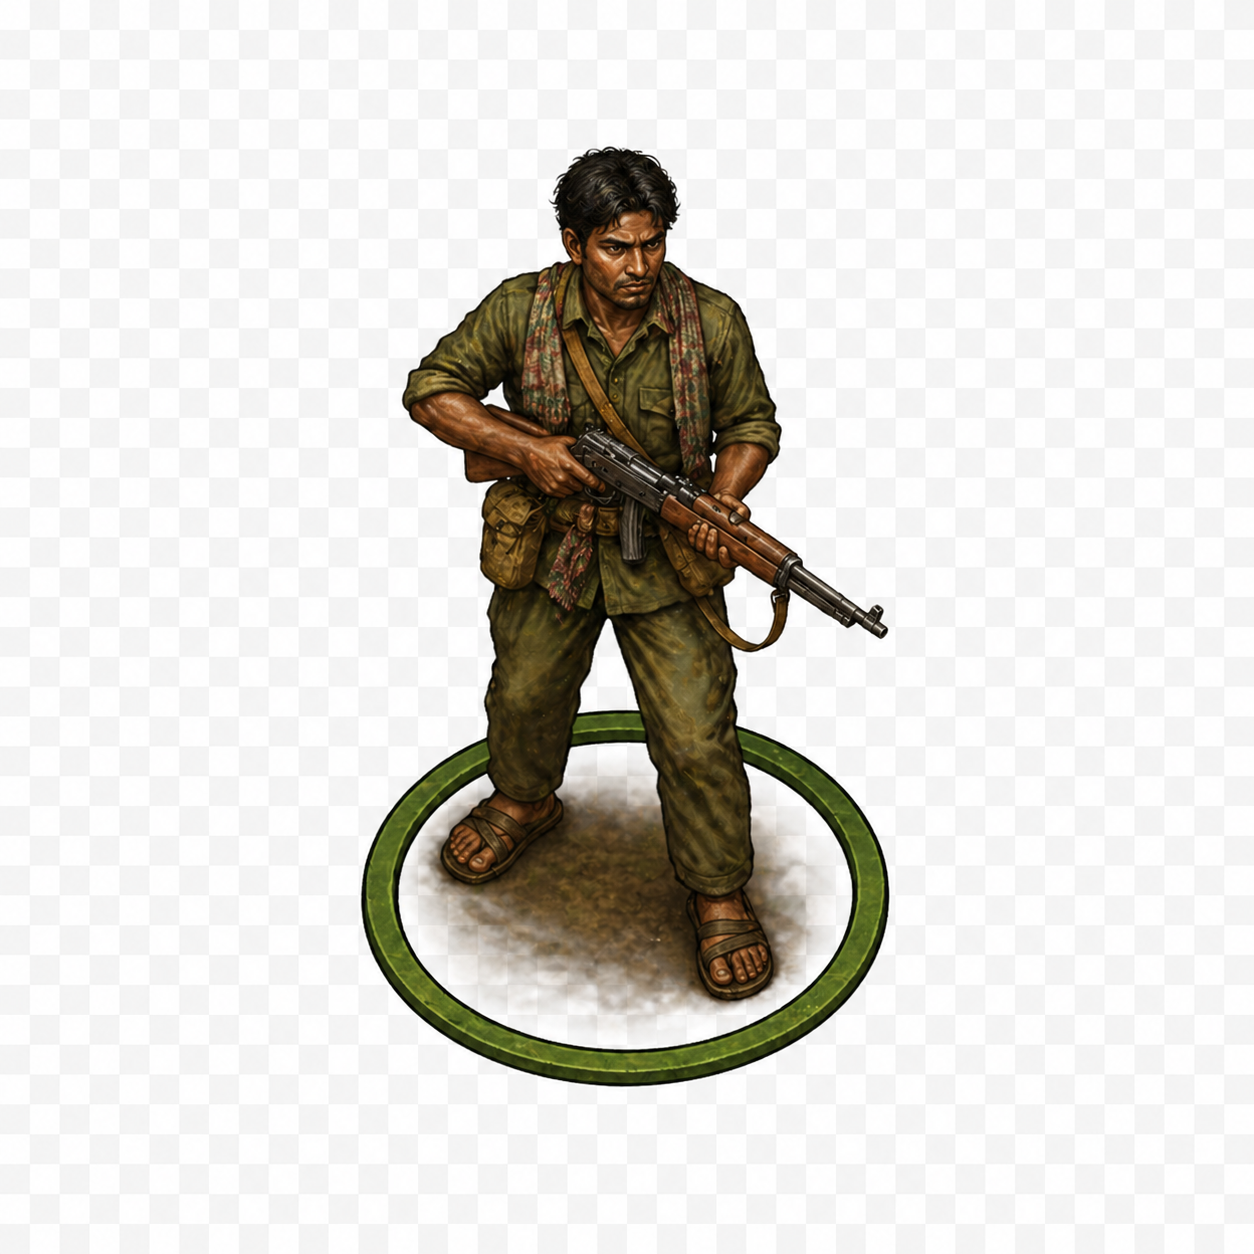
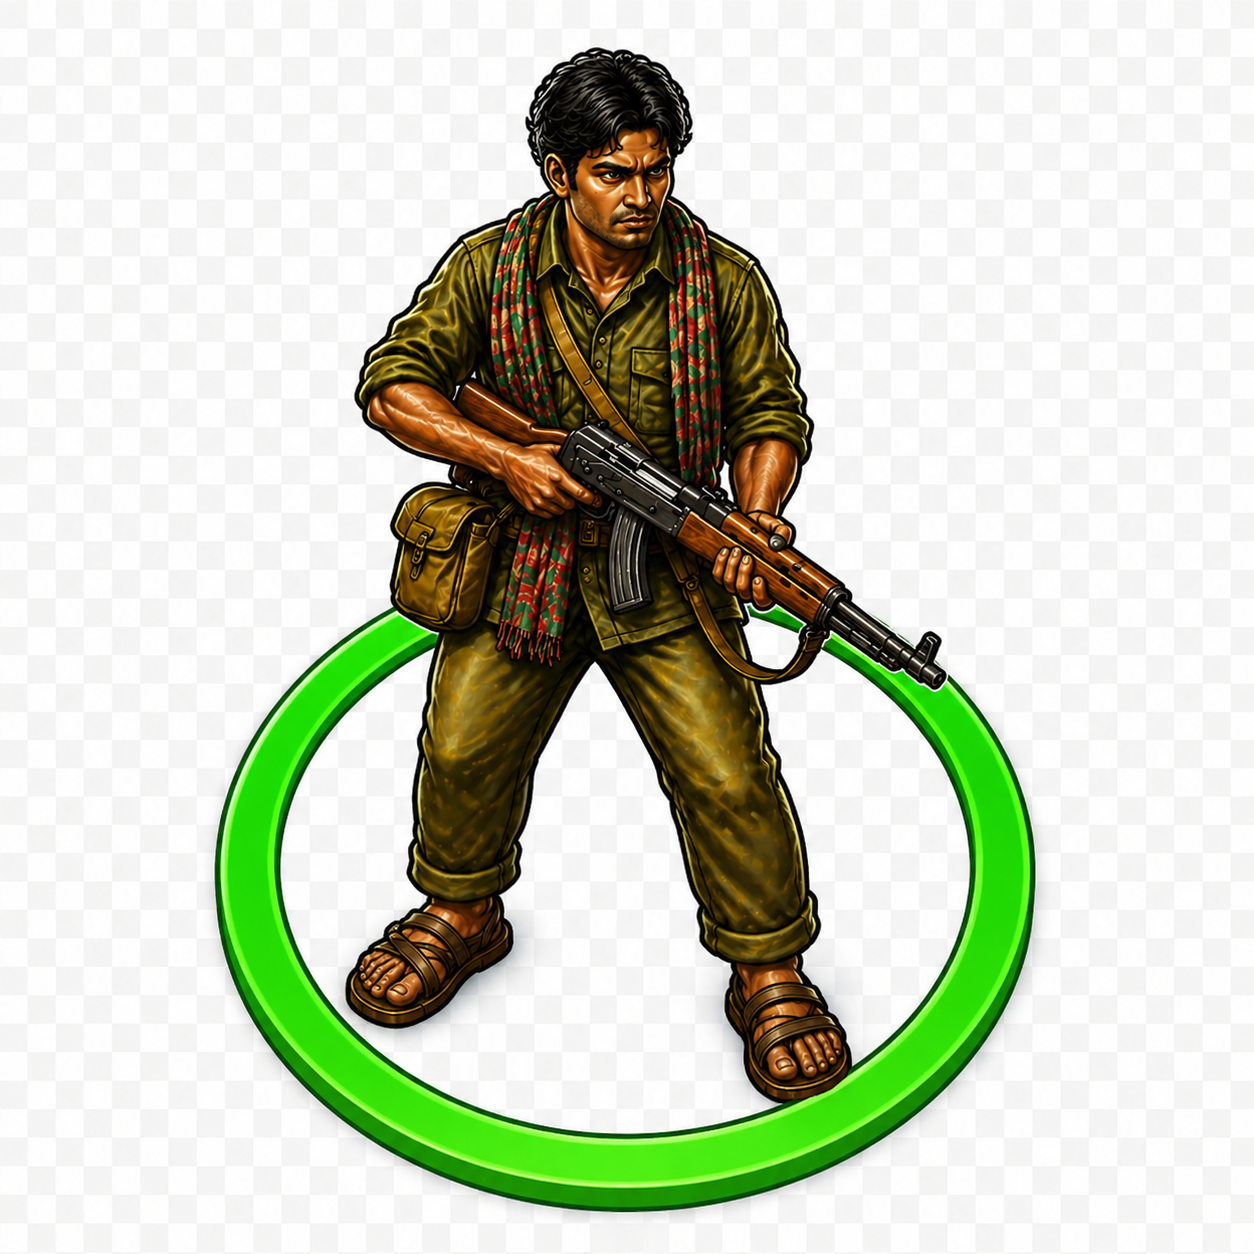
chore: update gameplay UI and assets

Changed region(s): [[0.1555, 0.0311, 0.8397, 0.9952]]

diff --git a/main.py b/main.py
@@ -2,6 +2,7 @@
 from __future__ import annotations
 
 import os
+from collections import deque
 
 import pygame
 from typing import Optional
@@ -121,7 +122,51 @@ def _load_gameplay_sprite(sprite_name: str, target_size: int) -> Optional[pygame
             crop_x = (img.get_width() - crop_w) // 2
             crop_y = (img.get_height() - crop_h) // 2
             img = img.subsurface((crop_x, crop_y, crop_w, crop_h)).copy()
-        return pygame.transform.smoothscale(img, (target_size, target_size))
+
+        scaled = pygame.transform.smoothscale(
+            img, (target_size, target_size)).convert_alpha()
+
+        # Remove neutral white/gray block backgrounds only when they are
+        # connected to the icon border, preserving interior highlights.
+        def _is_bg(px: pygame.Color) -> bool:
+            if px.a == 0:
+                return False
+            brightness = min(px.r, px.g, px.b)
+            spread = max(px.r, px.g, px.b) - brightness
+            return brightness >= 120 and spread <= 22
+
+        w, h = scaled.get_size()
+        q = deque()
+        visited: set[tuple[int, int]] = set()
+
+        for x in range(w):
+            q.append((x, 0))
+            q.append((x, h - 1))
+        for y in range(h):
+            q.append((0, y))
+            q.append((w - 1, y))
+
+        while q:
+            x, y = q.popleft()
+            if (x, y) in visited:
+                continue
+            visited.add((x, y))
+
+            px = scaled.get_at((x, y))
+            if not _is_bg(px):
+                continue
+
+            scaled.set_at((x, y), (px.r, px.g, px.b, 0))
+            if x > 0:
+                q.append((x - 1, y))
+            if x < w - 1:
+                q.append((x + 1, y))
+            if y > 0:
+                q.append((x, y - 1))
+            if y < h - 1:
+                q.append((x, y + 1))
+
+        return scaled
     except pygame.error:
         return None
 
@@ -157,7 +202,8 @@ def draw_player(screen, r, c, fill, edge, label, font_small, facing=None, sprite
     screen.blit(shadow, (c * s.TILE_SIZE, s.TOP_BAR_H + r * s.TILE_SIZE))
 
     glow = pygame.Surface((s.TILE_SIZE, s.TILE_SIZE), pygame.SRCALPHA)
-    pygame.draw.circle(glow, s.PLAYER_GLOW, (s.TILE_SIZE // 2, s.TILE_SIZE // 2), radius + 10)
+    pygame.draw.circle(glow, s.PLAYER_GLOW, (s.TILE_SIZE //
+                       2, s.TILE_SIZE // 2), radius + 10)
     screen.blit(glow, (c * s.TILE_SIZE, s.TOP_BAR_H + r * s.TILE_SIZE))
 
     pygame.draw.circle(screen, fill, (center_x, center_y), radius)
@@ -168,7 +214,8 @@ def draw_player(screen, r, c, fill, edge, label, font_small, facing=None, sprite
         arrow_len = int(radius * 0.6)
         arrow_end_x = center_x + dc * arrow_len
         arrow_end_y = center_y + dr * arrow_len
-        pygame.draw.line(screen, (10, 10, 12), (center_x, center_y), (arrow_end_x, arrow_end_y), 3)
+        pygame.draw.line(screen, (10, 10, 12), (center_x,
+                         center_y), (arrow_end_x, arrow_end_y), 3)
         head_size = 5
         if dr != 0:
             points = [
@@ -185,7 +232,8 @@ def draw_player(screen, r, c, fill, edge, label, font_small, facing=None, sprite
         pygame.draw.polygon(screen, (10, 10, 12), points)
 
     txt = font_small.render(label, True, (10, 10, 12))
-    screen.blit(txt, (center_x - txt.get_width() // 2, center_y - txt.get_height() // 2))
+    screen.blit(txt, (center_x - txt.get_width() //
+                2, center_y - txt.get_height() // 2))
 
 
 def draw_layout(screen, grid, font_exit, raj_pos, birsreshtha_pos, birsreshtha_facing, scan_cells=None):
@@ -325,7 +373,8 @@ def draw_layout(screen, grid, font_exit, raj_pos, birsreshtha_pos, birsreshtha_f
         s.RAJAKAR_EDGE,
         "R",
         font_exit,
-        sprite=None if GAMEPLAY_SPRITES is None else GAMEPLAY_SPRITES.get("rajakar"),
+        sprite=None if GAMEPLAY_SPRITES is None else GAMEPLAY_SPRITES.get(
+            "rajakar"),
     )
     draw_player(
         screen,
@@ -336,7 +385,8 @@ def draw_layout(screen, grid, font_exit, raj_pos, birsreshtha_pos, birsreshtha_f
         "B",
         font_exit,
         facing=birsreshtha_facing,
-        sprite=None if GAMEPLAY_SPRITES is None else GAMEPLAY_SPRITES.get("birsreshtha"),
+        sprite=None if GAMEPLAY_SPRITES is None else GAMEPLAY_SPRITES.get(
+            "birsreshtha"),
     )
 
 

diff --git a/render/ui.py b/render/ui.py
@@ -114,7 +114,8 @@ def _draw_sidebar_ui(screen, fonts, state, sidebar):
     is_rajakar_turn = state["current"] == "Rajakar"
 
     x, y = _sidebar_pos(BOARD_PX, 72, 225)
-    _draw_text_shadow(screen, font_body, f"Current: {state['current']}", x, y, ink)
+    _draw_text_shadow(screen, font_body,
+                      f"Current: {state['current']}", x, y, ink)
     x, y = _sidebar_pos(BOARD_PX, 72, 306)
     _draw_text_shadow(
         screen, font_body, f"Turn Count: {state['turn']} / {state['max_turns']}", x, y, ink)
@@ -122,7 +123,7 @@ def _draw_sidebar_ui(screen, fonts, state, sidebar):
     _draw_text_shadow(
         screen, font_small, f"Confidence: {peak}%   Exits: {exits_known}/{exits_total}", x, y, muted)
 
-    x, y = _sidebar_pos(BOARD_PX, 72, 918)
+    x, y = _sidebar_pos(BOARD_PX, 72, 872)
     signal_title = "Contact this turn:" if is_rajakar_turn else "Signals this turn:"
     _draw_text_shadow(screen, font_body, signal_title, x, y, ink)
 
@@ -139,13 +140,17 @@ def _draw_sidebar_ui(screen, fonts, state, sidebar):
 
     x, y = _sidebar_pos(BOARD_PX, 72, 1460)
     if state["current"] == "Rajakar":
-        _draw_text_shadow(screen, font_body, "Reach EXIT and Escape.", x, y, strong)
+        _draw_text_shadow(screen, font_body,
+                          "Reach EXIT and Escape.", x, y, strong)
         x, y = _sidebar_pos(BOARD_PX, 72, 1534)
-        _draw_text_shadow(screen, font_small, "Escape takes 1 full turn on EXIT.", x, y, muted)
+        _draw_text_shadow(screen, font_small,
+                          "Escape takes 1 full turn on EXIT.", x, y, muted)
     else:
-        _draw_text_shadow(screen, font_body, "Get adjacent to capture.", x, y, strong)
+        _draw_text_shadow(screen, font_body,
+                          "Get adjacent to capture.", x, y, strong)
         x, y = _sidebar_pos(BOARD_PX, 72, 1534)
-        _draw_text_shadow(screen, font_small, "Capture after BirSreshtha move.", x, y, muted)
+        _draw_text_shadow(screen, font_small,
+                          "Capture after BirSreshtha move.", x, y, muted)
 
 
 def _draw_fallback_ui(screen, fonts, state):
@@ -183,7 +188,7 @@ def _draw_fallback_ui(screen, fonts, state):
 
     signal_title = "Contact this turn:" if is_rajakar_turn else "Signals this turn:"
     _draw_text(screen, font_body, signal_title,
-               card2.x + 16, card2.y + 58, MUTED)
+               card2.x + 16, card2.y + 46, MUTED)
 
     _draw_pill(
         screen, font_small,
